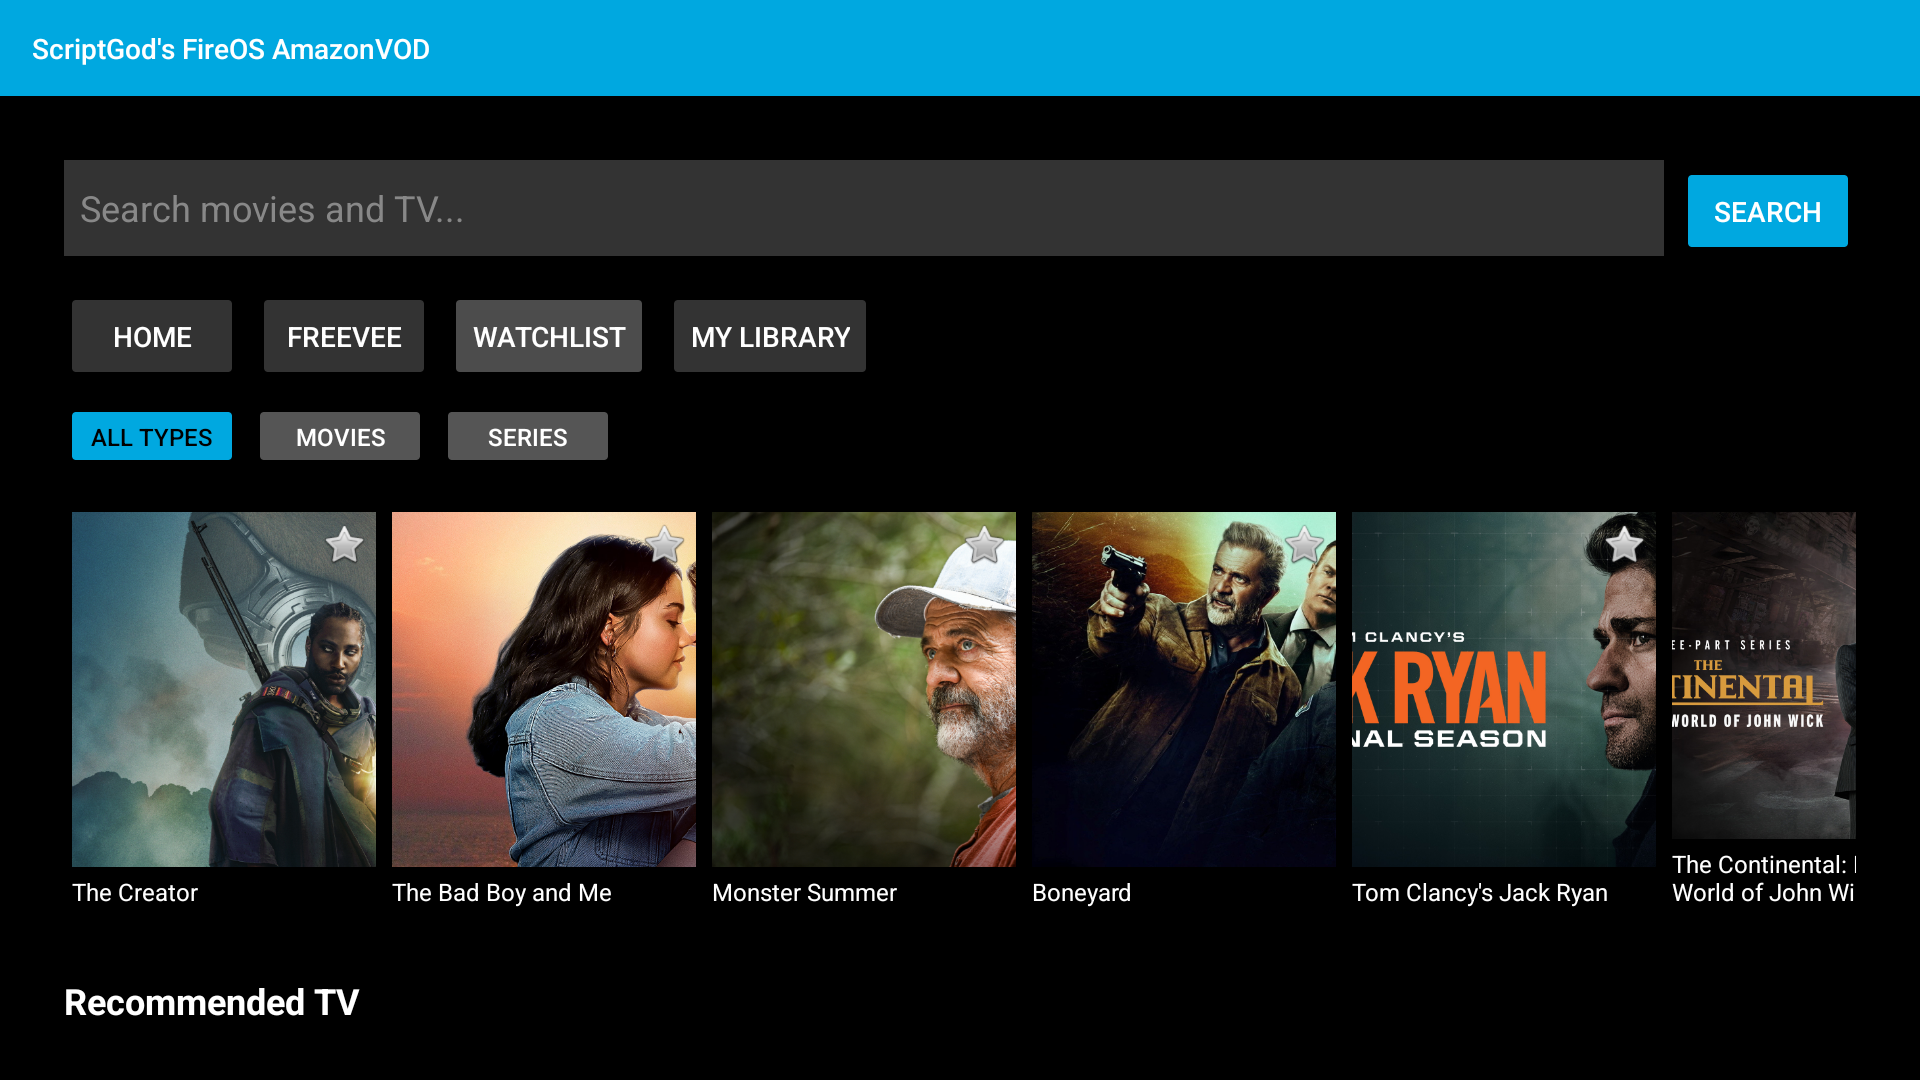
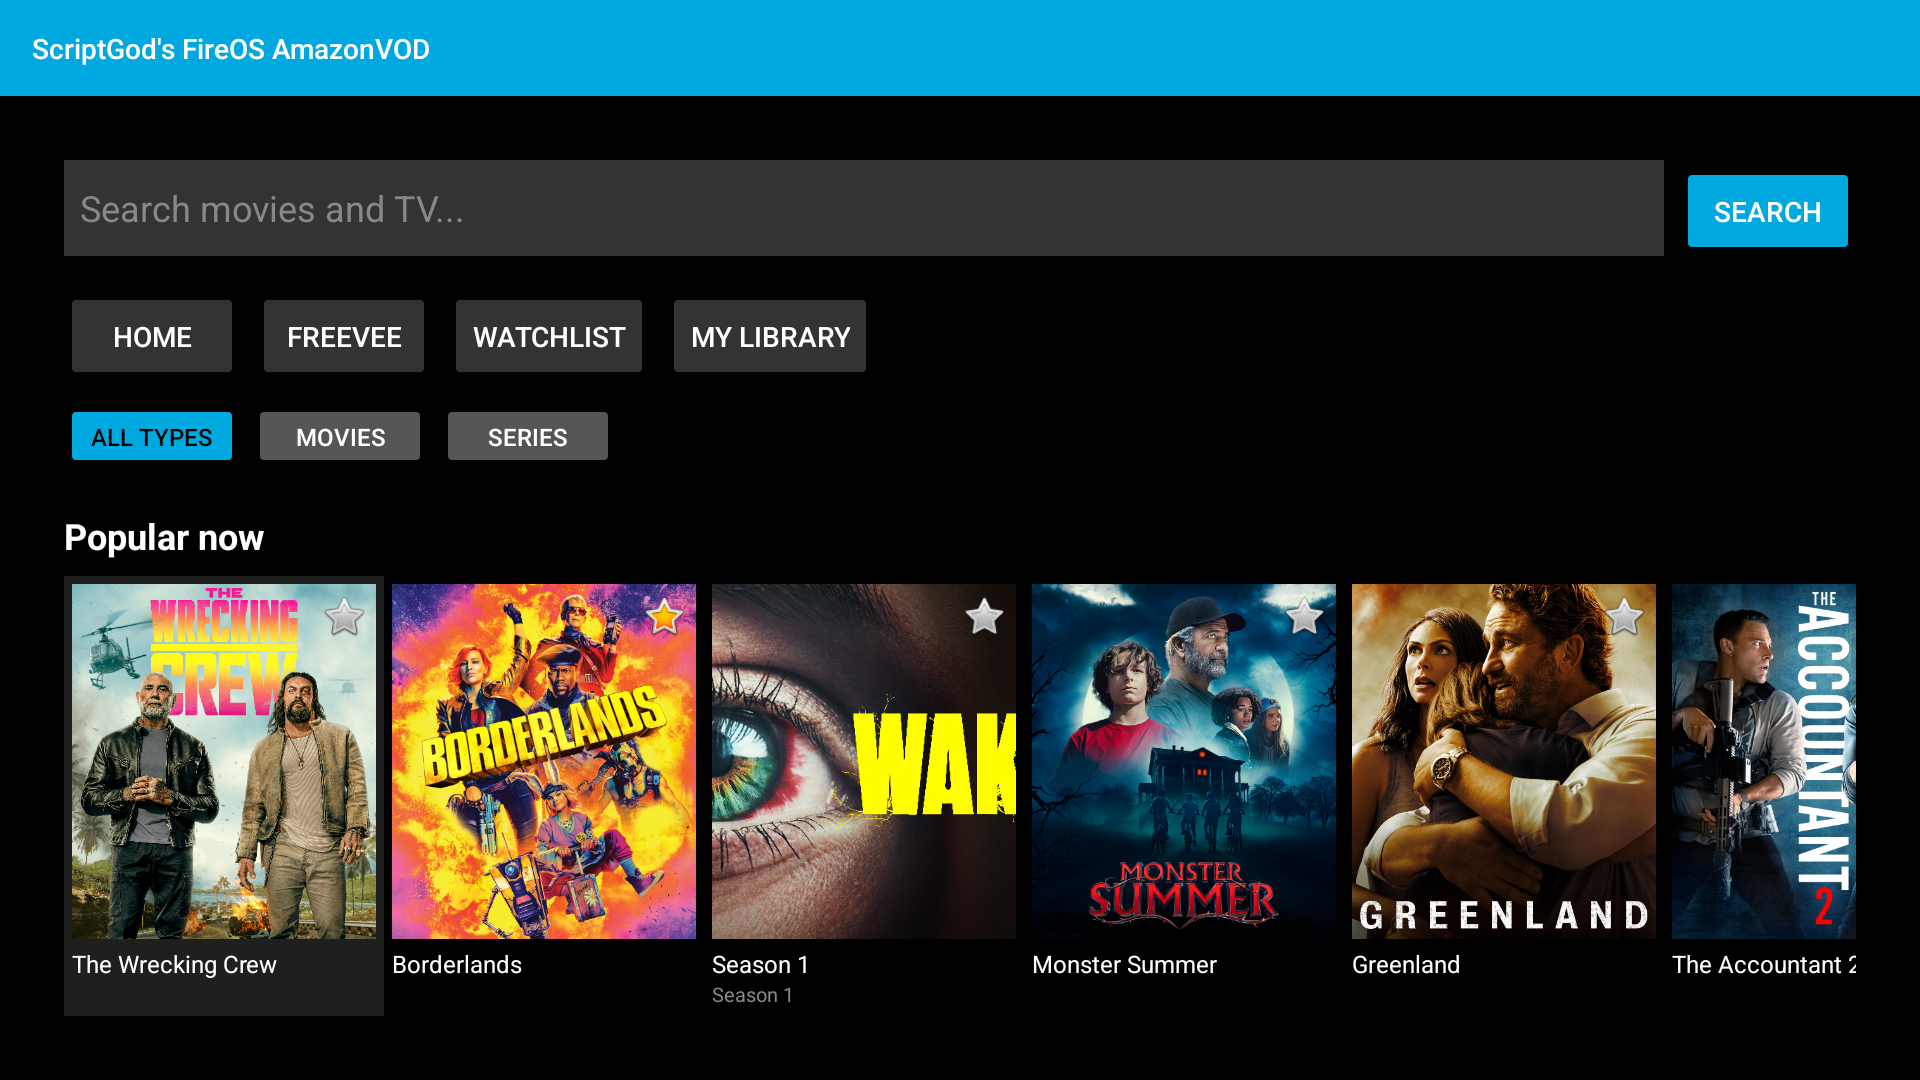
docs: fix home screenshots and add watchlist progress bar caption
- Replace "Home Multiple Rails" screenshot with the "Popular now" rail
  (was showing same Featured content twice)
- Rename captions: "Featured Rail" / "Popular Now Rail" to be distinct
- Update watchlist caption to note visible watch progress bar
- No code changes; no build required

diff --git a/README.md b/README.md
@@ -48,11 +48,11 @@ com.scriptgod.fireos.avod
 
 ## Screenshots
 
-| Home — Featured Carousel | Home — Multiple Rails |
+| Home — Featured Rail | Home — Popular Now Rail |
 |:---:|:---:|
-| ![Home Featured](screenshots/02_home.png) | ![Home Multi Rails](screenshots/02b_home_multi.png) |
+| ![Home Featured](screenshots/02_home.png) | ![Home Popular Now](screenshots/02b_home_multi.png) |
 
-| Login | Search Suggestions | Watchlist |
+| Login | Search Suggestions | Watchlist (with progress bar) |
 |:---:|:---:|:---:|
 | ![Login](screenshots/01_login.png) | ![Search](screenshots/03_search.png) | ![Watchlist](screenshots/04_watchlist.png) |
 
